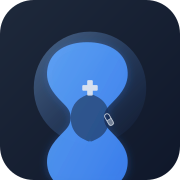
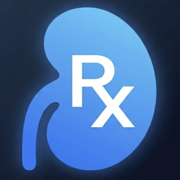
Gemini生成アイコンに差し替え

diff --git a/app/page.tsx b/app/page.tsx
@@ -28,7 +28,7 @@ export default function Home() {
       <header className="bg-gray-800 text-white px-4 py-3 sticky top-0 z-10 shadow-md border-b border-gray-700">
         <div className="flex items-center gap-2">
           <Image
-            src="/icon.svg"
+            src="/icon-192.png"
             alt="KidneyRx"
             width={32}
             height={32}
